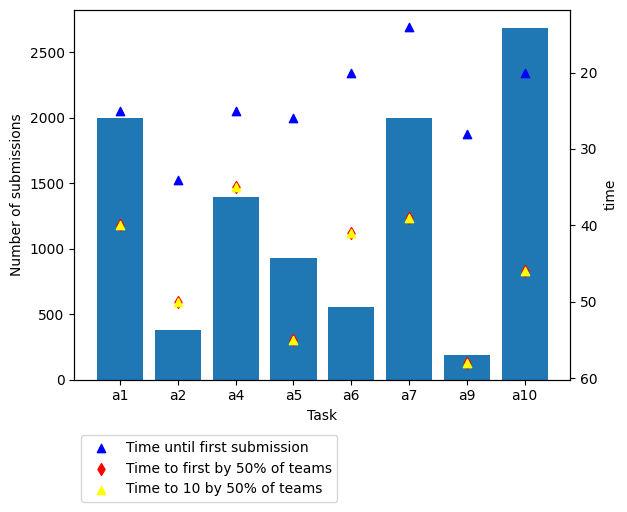
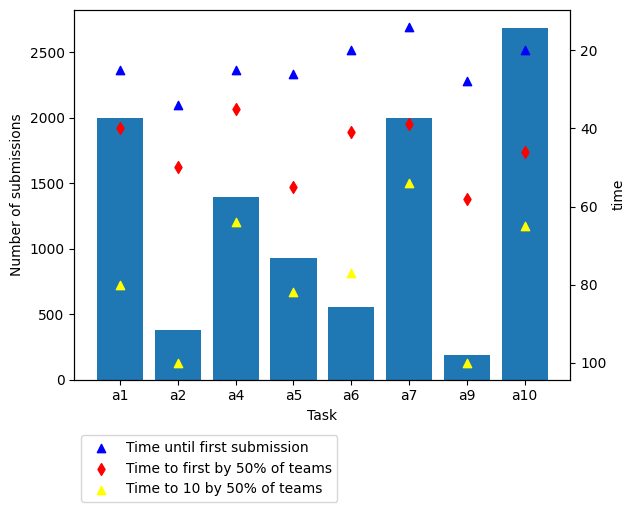
add submission number and time distribution

diff --git a/src/python/main.py b/src/python/main.py
@@ -127,7 +127,7 @@ def number_of_submissions(unique=False, correct=False):
     submission_nums = [task_info[_task_id]["submission_num"] for _task_id in task_ids]
     time_to_1 = [task_info[_task_id]["time_to_1"] // 1000 for _task_id in task_ids]
     time_to_1_by_50p = [task_info[_task_id]["time_to_1_by_50%"] // 1000 for _task_id in task_ids]
-    time_to_10_by_50p = [task_info[_task_id]["time_to_1_by_50%"] // 1000 for _task_id in task_ids]
+    time_to_10_by_50p = [task_info[_task_id]["time_to_10_by_50%"] // 1000 for _task_id in task_ids]
 
     # plot bar chart
     fig, ax_bar = plt.subplots()
@@ -162,5 +162,5 @@ def number_of_submissions(unique=False, correct=False):
 
 if __name__ == "__main__":
     print("Hello world")
-    accumulative_correct_submission(unique=False)
-    # number_of_submissions(unique=True, correct=True)
+    # accumulative_correct_submission(unique=False)
+    number_of_submissions(unique=False, correct=False)
